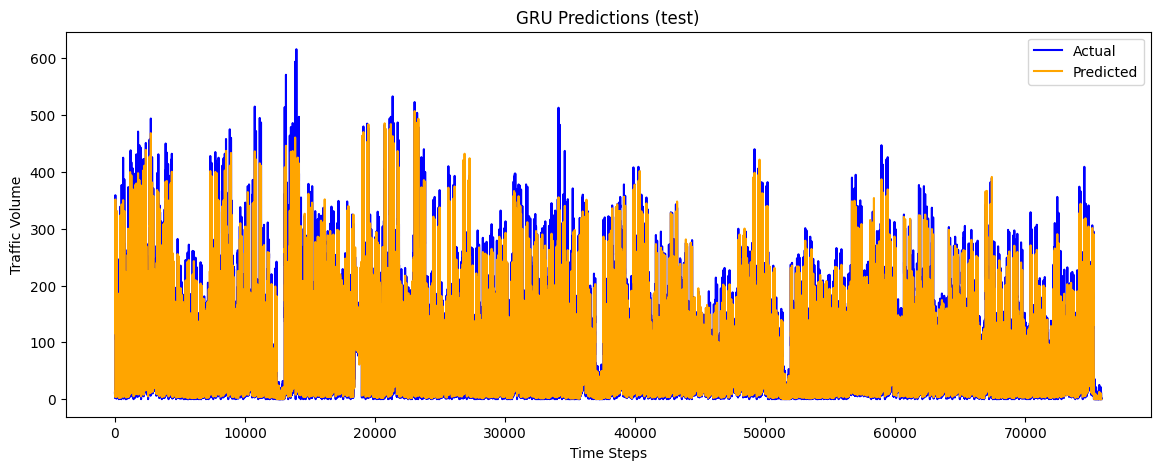
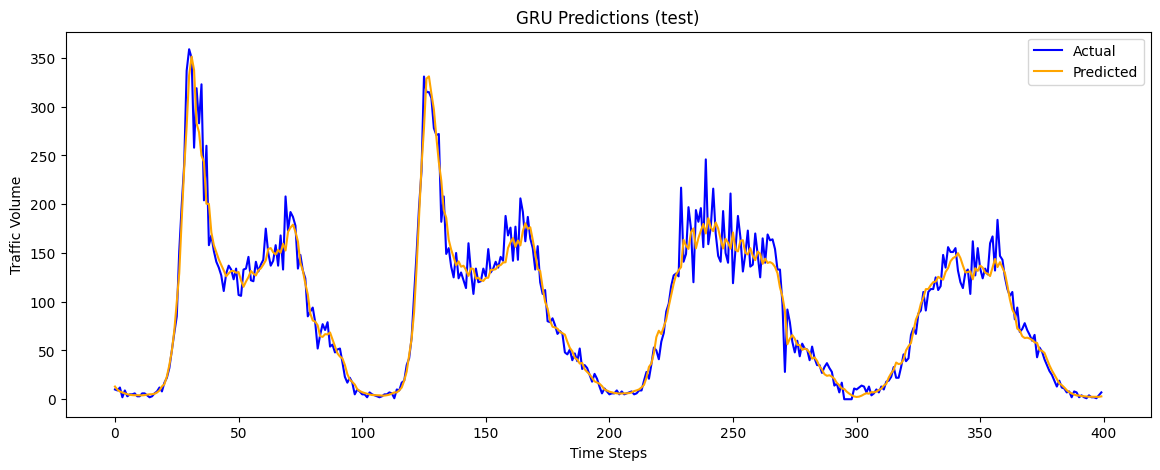
convert evaluation to line graph

diff --git a/src/evaluation.py b/src/evaluation.py
@@ -62,8 +62,8 @@ def plot_predictions(actual, predicted, title, output_dir: Path = GRAPH_DIR, fil
   save_path = output_dir / save_name
 
   plt.figure(figsize=(14, 5))
-  plt.plot(actual, label="Actual", color="blue")
-  plt.plot(predicted, label="Predicted", color="orange")
+  plt.plot(actual[:400], label="Actual", color="blue")
+  plt.plot(predicted[:400], label="Predicted", color="orange")
   plt.title(title)
   plt.xlabel("Time Steps")
   plt.ylabel("Traffic Volume")
